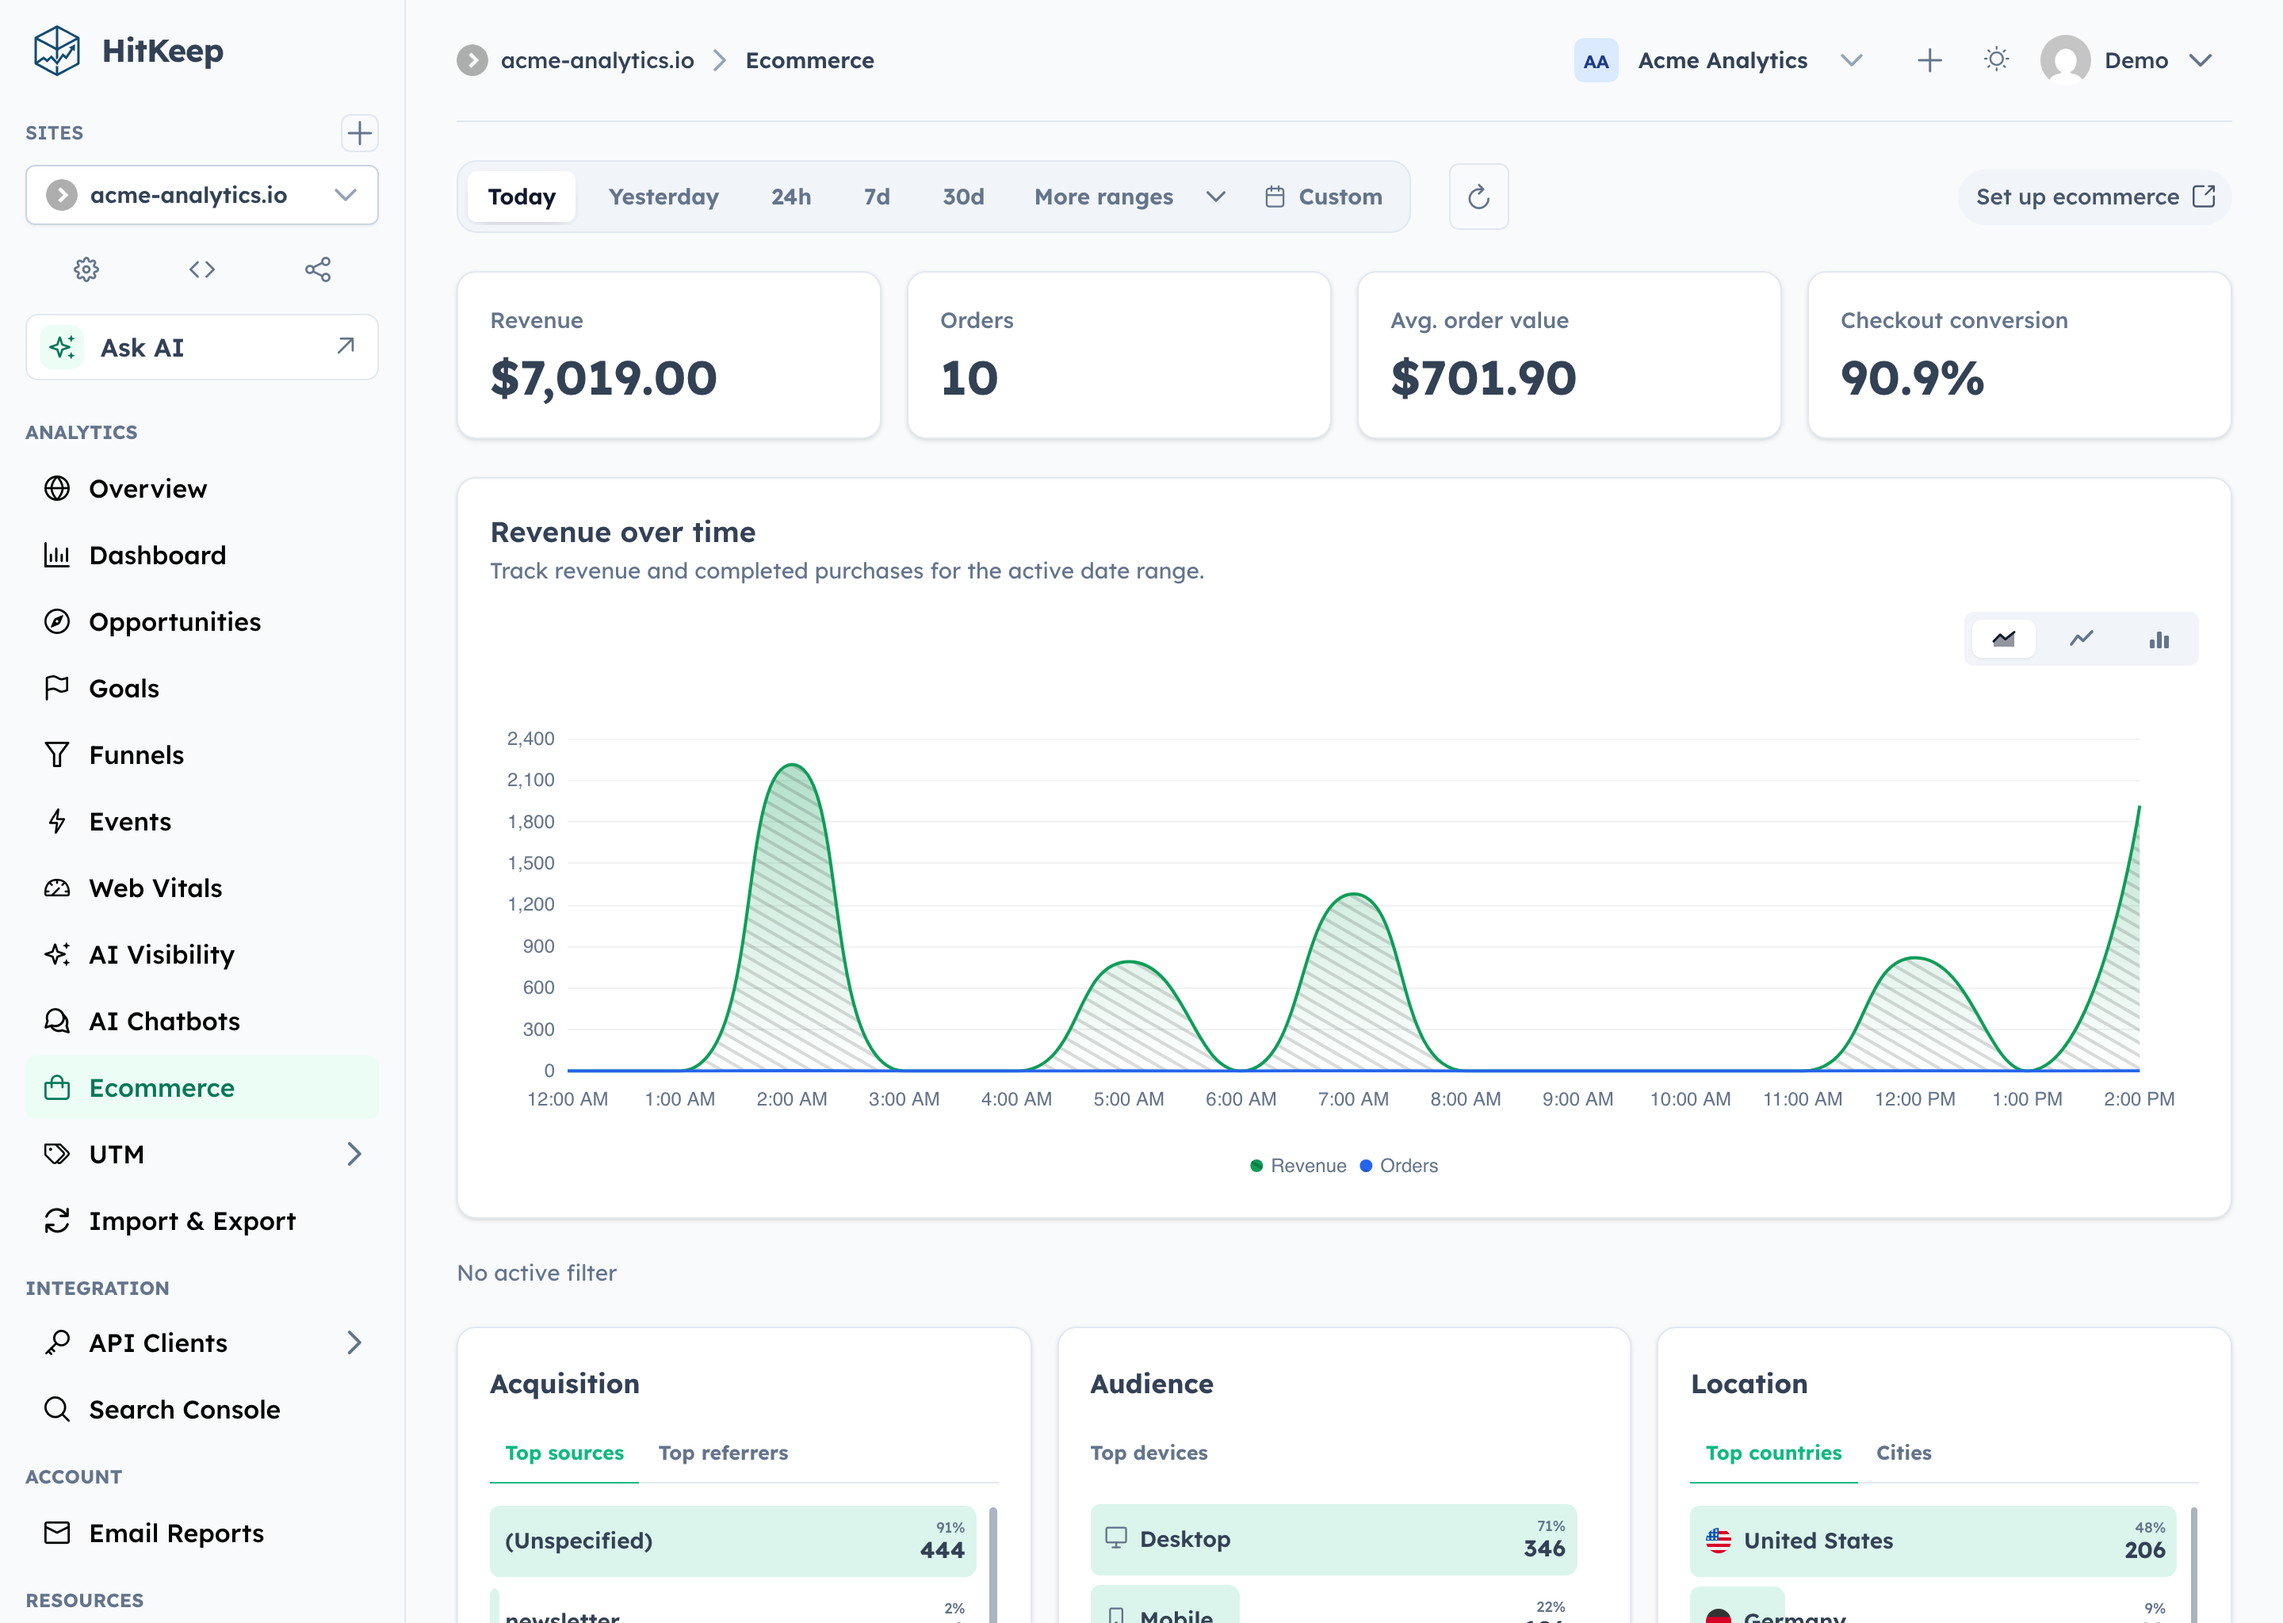
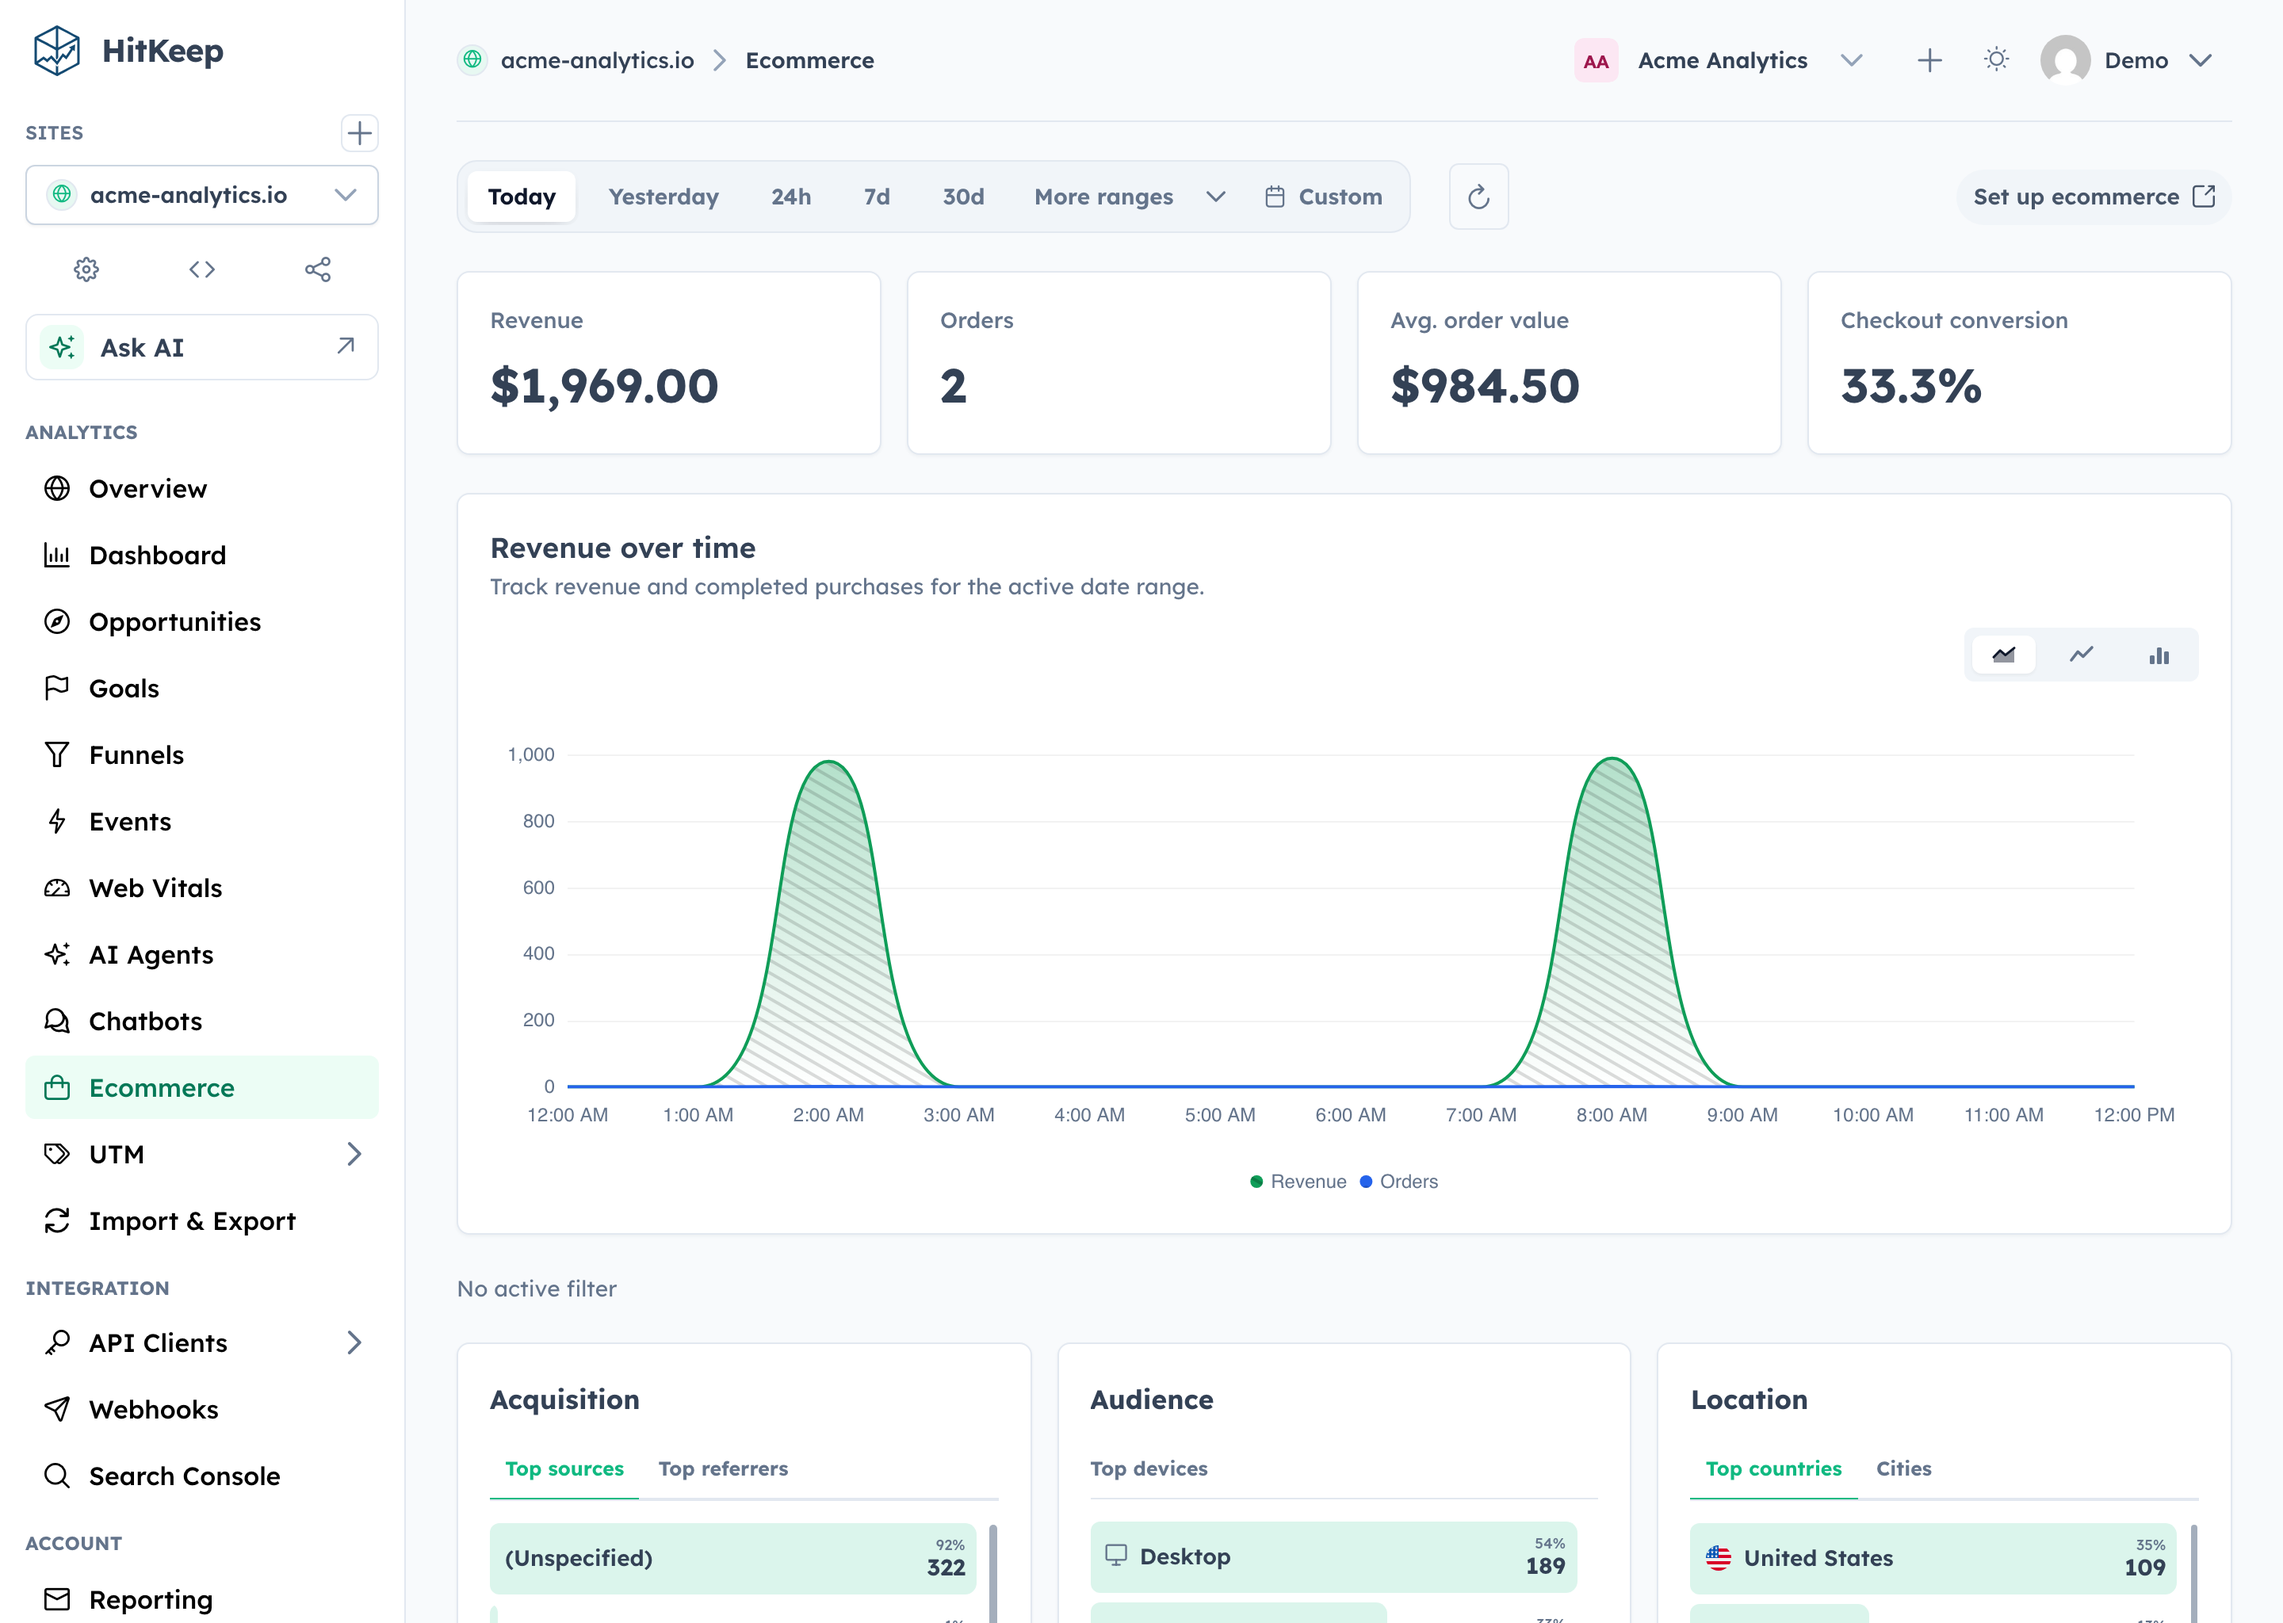
docs(screenshots): make AI dashboard view canonical
Refresh the curated product imagery from seeded analytics data and use

the populated AI Agents dashboard as the README dashboard asset.

diff --git a/README.md b/README.md
@@ -115,8 +115,8 @@ More tracking guides:
 <details>
 <summary>See six product screenshots</summary>
 
-### Dashboard
-![HitKeep analytics dashboard with traffic overview, geographic breakdown, goals, funnels, and UTM attribution](./.github/assets/dashboard-overview.png)
+### AI dashboard
+![HitKeep AI Agents dashboard with AI request, referral, crawl, and pageview analytics](./.github/assets/dashboard-overview.png)
 
 ### Ecommerce
 ![HitKeep ecommerce analytics with revenue KPIs, chart, top products, and revenue sources](./.github/assets/analytics-ecommerce.png)
